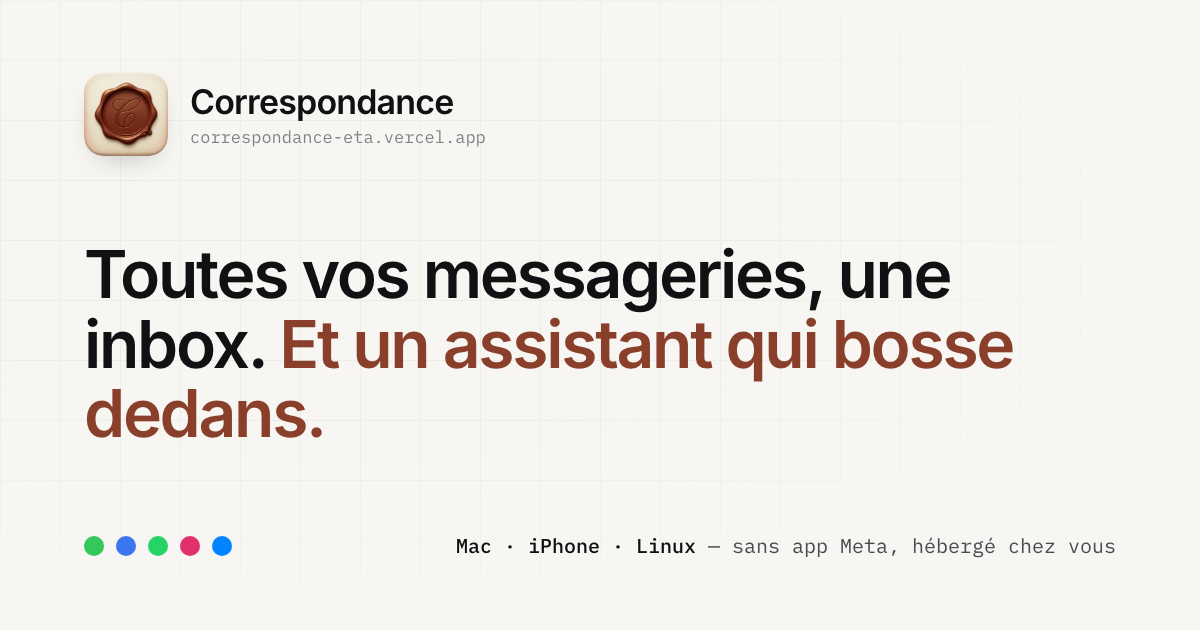
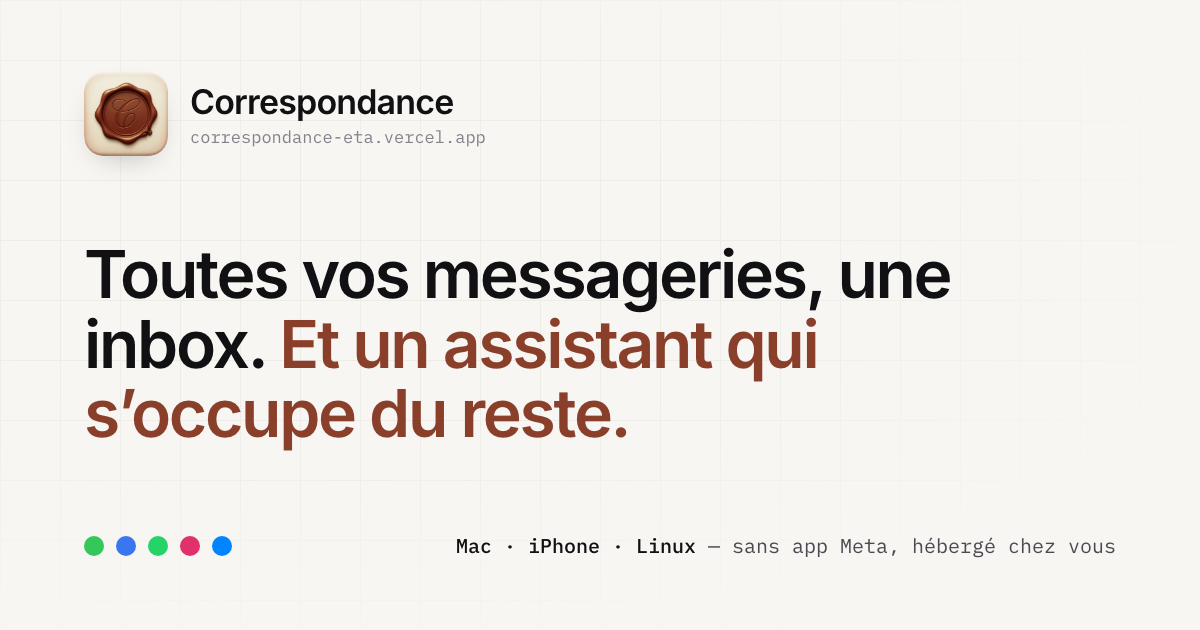
Hero pour des 35-50 ans : « Et un assistant qui s’occupe du reste » remplace « qui bosse dedans », dans le titre, la carte OG et l'appel final. Le lede parle des fils qu'on n'a pas le temps de lire, des acheteurs, du devis, de la traduction, du message qu'on cherche. Le titre s'étale sur 22ch pour t
Claude-Session: https://claude.ai/code/session_01Hcst64AXLXaeqK4j6JfA11

Changed region(s): [[0.0617, 0.6032, 0.5242, 0.7238], [0.6783, 0.5127, 0.8633, 0.6032]]

diff --git a/site/index.html b/site/index.html
@@ -3,7 +3,7 @@
 <head>
 <meta charset="utf-8">
 <meta name="viewport" content="width=device-width, initial-scale=1">
-<title>Correspondance — Toutes vos messageries, une inbox. Et un assistant qui bosse dedans.</title>
+<title>Correspondance — Toutes vos messageries, une inbox. Et un assistant qui s’occupe du reste.</title>
 <meta name="description" content="Correspondance réunit iMessage, Signal, WhatsApp, Instagram et Messenger dans une seule inbox sur Mac, iPhone et Linux. Un assistant IA y répond aux acheteurs, résume le groupe famille, traduit, prépare vos devis. Sans app Meta sur votre téléphone, hébergé chez vous.">
 <meta property="og:title" content="Correspondance">
 <meta property="og:description" content="Toutes vos messageries dans une inbox, et un assistant IA qui répond aux acheteurs, résume, traduit et prépare vos devis. Rien ne part sans vous. Hébergé chez vous.">
@@ -14,7 +14,7 @@
 <meta property="og:image" content="https://correspondance-eta.vercel.app/img/og.png">
 <meta property="og:image:width" content="1200">
 <meta property="og:image:height" content="630">
-<meta property="og:image:alt" content="Correspondance — Toutes vos messageries, une inbox. Et un assistant qui bosse dedans.">
+<meta property="og:image:alt" content="Correspondance — Toutes vos messageries, une inbox. Et un assistant qui s’occupe du reste.">
 <meta name="twitter:card" content="summary_large_image">
 <meta name="twitter:title" content="Correspondance">
 <meta name="twitter:description" content="Toutes vos messageries dans une inbox, et un assistant IA qui répond aux acheteurs, résume, traduit et prépare vos devis. Rien ne part sans vous. Hébergé chez vous.">
@@ -72,7 +72,7 @@
 
   .hero{padding:88px 0 40px;text-align:center}
   .hero .icon{width:96px;height:96px;border-radius:22px;margin:0 auto 28px;box-shadow:0 12px 30px -10px rgba(17,17,20,.35)}
-  .hero h1{max-width:16ch;margin:0 auto}
+  .hero h1{max-width:22ch;margin:0 auto}
   .hero .lede{max-width:58ch;margin:22px auto 0}
   .cta{display:flex;gap:12px;justify-content:center;flex-wrap:wrap;margin-top:34px}
   .platforms{margin-top:14px;font-size:13px;color:var(--ink-3)}
@@ -222,8 +222,8 @@
 <header class="hero">
   <div class="wrap">
     <img class="icon" src="/img/icon.png" alt="Icône de Correspondance">
-    <h1>Toutes vos messageries, une inbox. Et un assistant qui bosse dedans.</h1>
-    <p class="lede">iMessage, Signal, WhatsApp, Instagram et Messenger réunis, sur Mac, iPhone et Linux. Invitez votre assistant IA dans un fil : il répond aux acheteurs Marketplace, résume le groupe famille, chiffre un devis à partir d'une photo, traduit. Rien ne part sans votre accord. Tout tourne chez vous, sans app Meta sur votre téléphone.</p>
+    <h1>Toutes vos messageries, une inbox. Et un assistant qui s’occupe du reste.</h1>
+    <p class="lede">iMessage, Signal, WhatsApp, Instagram et Messenger réunis, sur Mac, iPhone et Linux. Votre assistant lit les fils que vous n’avez pas le temps de lire, répond aux acheteurs, prépare un devis à partir d’une photo, traduit, retrouve le message que vous cherchez. Rien ne part sans votre accord. Tout tourne chez vous, sans app Meta sur votre téléphone.</p>
     <div class="cta">
       <a class="btn" href="https://testflight.apple.com/join/pv7HR2YT">
         <svg viewBox="0 0 24 24" fill="currentColor"><path d="M16.4 12.7c0-2.5 2-3.7 2.1-3.8-1.2-1.7-3-1.9-3.6-2-1.5-.2-3 .9-3.8.9-.8 0-2-.9-3.3-.8-1.7 0-3.2 1-4.1 2.5-1.8 3-.5 7.6 1.3 10.1.9 1.2 1.9 2.6 3.2 2.5 1.3-.1 1.8-.8 3.3-.8 1.6 0 2 .8 3.3.8 1.4 0 2.3-1.2 3.1-2.5.6-.9 1.1-1.9 1.4-2.9-.1 0-2.9-1.1-2.9-4Zm-2.5-7.4c.7-.9 1.2-2 1.1-3.2-1 0-2.3.7-3 1.6-.7.8-1.2 2-1.1 3.1 1.1.1 2.3-.6 3-1.5Z"/></svg>
@@ -499,7 +499,7 @@
 <div class="final">
   <div class="wrap">
     <img class="icon" src="/img/icon.png" alt="">
-    <h2>Une inbox pour tout. Un assistant dedans.</h2>
+    <h2>Une inbox pour tout. Un assistant qui s’occupe du reste.</h2>
     <p class="lede" style="margin:14px auto 0;max-width:44ch">Gratuit pendant la bêta, sur iPhone, sur Mac et sur Linux.</p>
     <div class="cta">
       <a class="btn" href="https://testflight.apple.com/join/pv7HR2YT"><span class="store"><small>Bêta gratuite via TestFlight</small>Télécharger pour iPhone</span></a>
